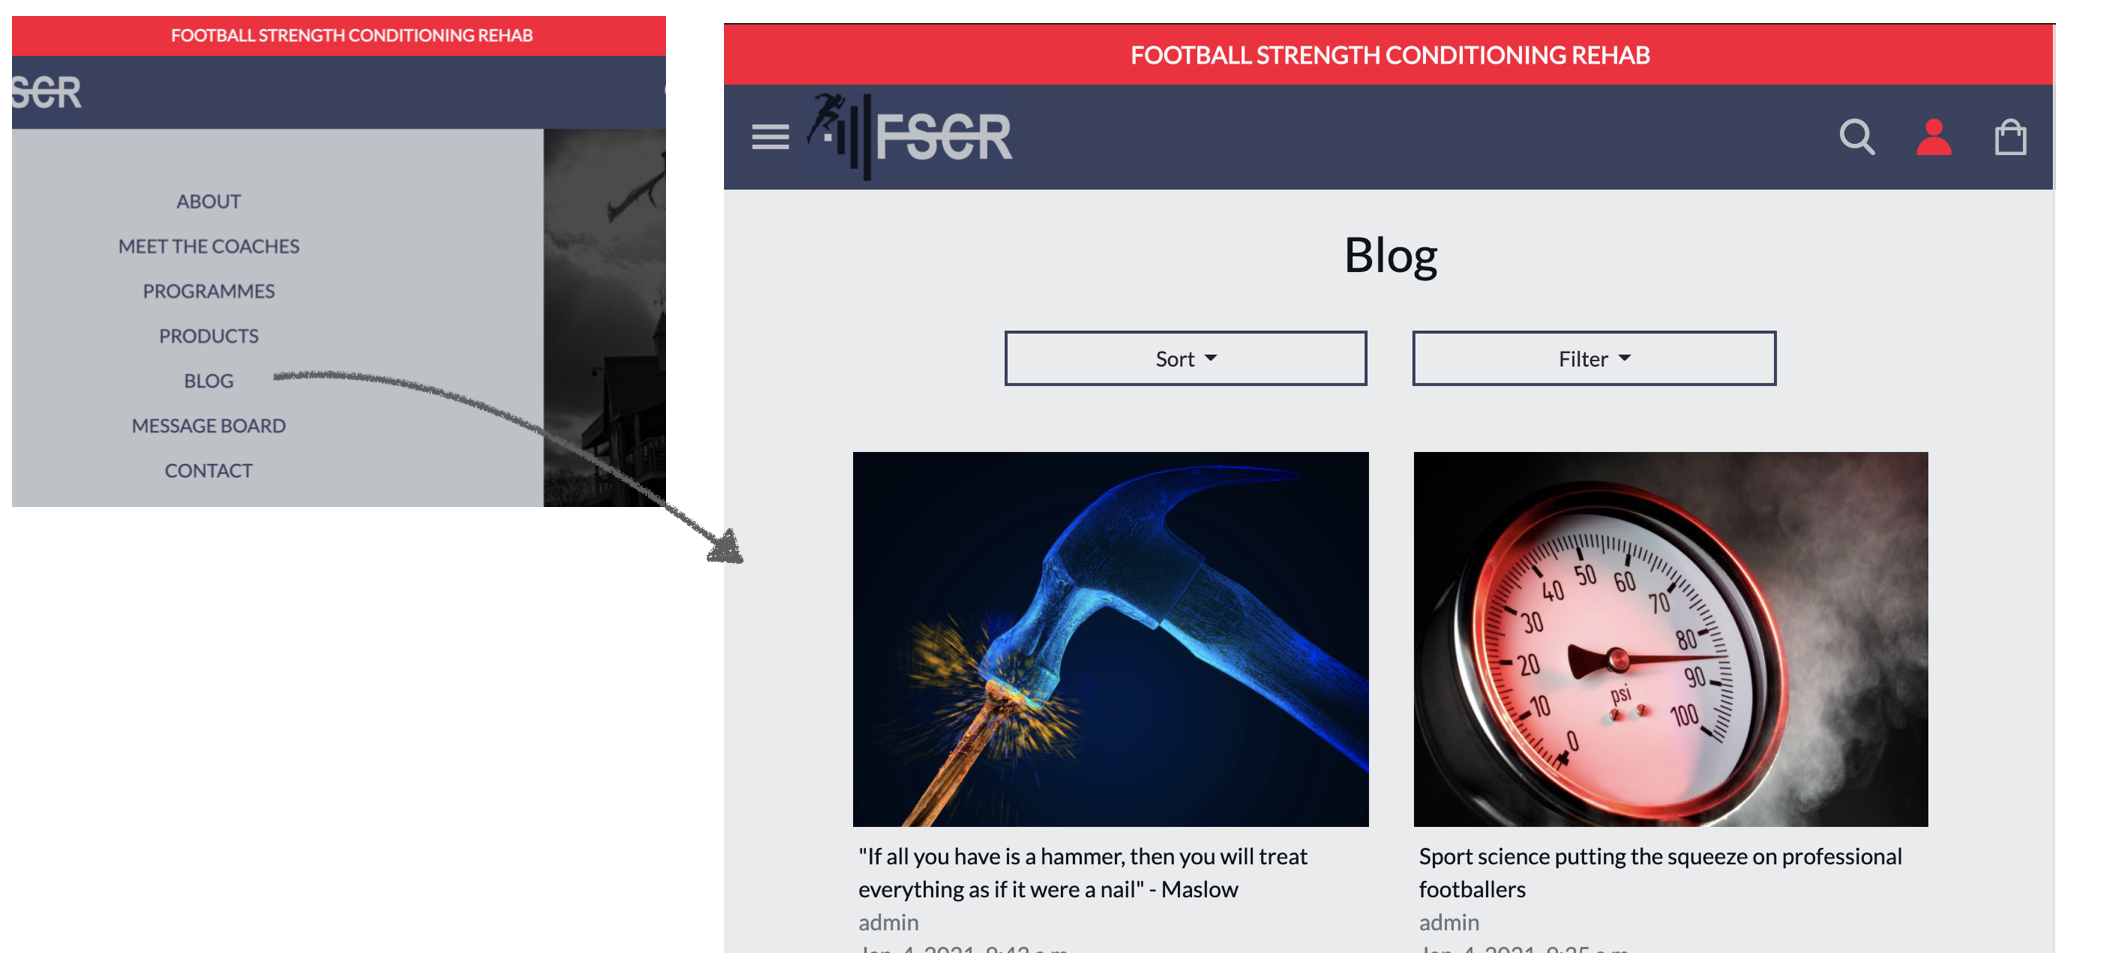
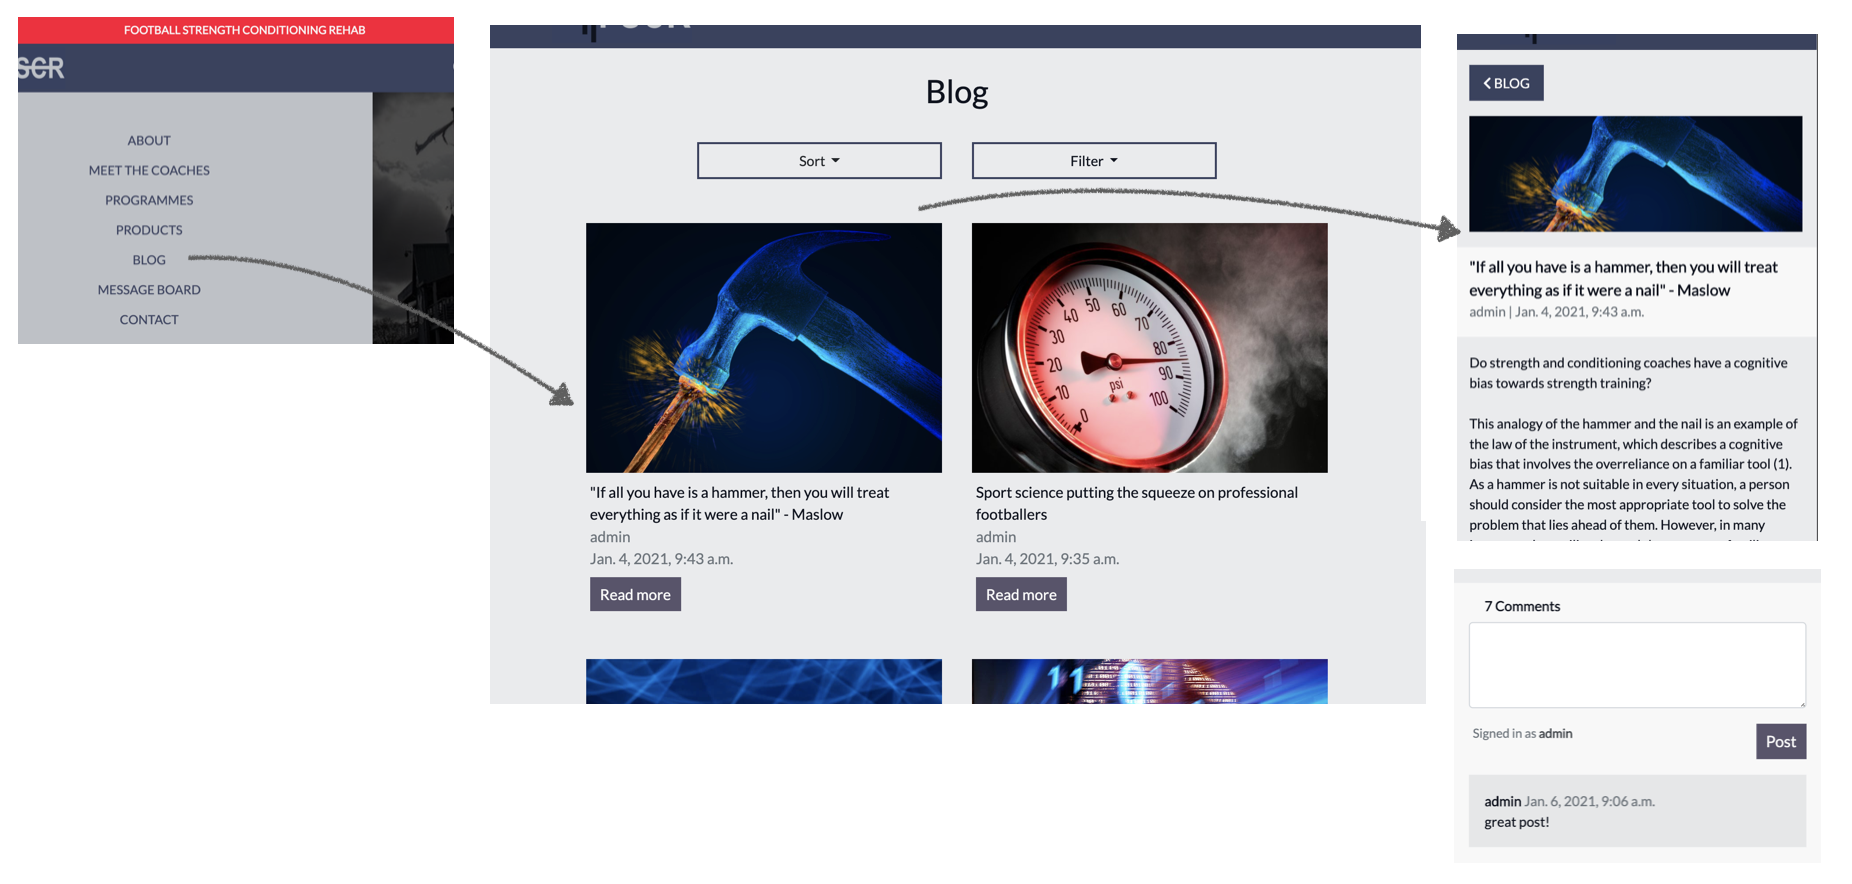
blog and forum image updated for user stories

diff --git a/testing.md b/testing.md
@@ -13,7 +13,7 @@
 
 ---
 
-#### Testing user stories
+### **Testing user stories**
 
 <u>Viewing and Navigation</u>
 
@@ -109,6 +109,8 @@ If a user forgets their password they have the option to click the 'forgot passw
 
 The profile page is specific to each user with a personalised username greeting,the option to save their own entered details and a log of their order history.
 
+(See user story 13 for imagery)
+
 **16. Enable my details to be prefilled**
 
 If the user has filled in their profile information, these details will be prefilled at checkout. The user also has the option to tick the save details options on checkout which will automatically save details to their profile page.
@@ -200,7 +202,7 @@ When logged in as admin user, the user has a delete button displayed next to the
 
 When logged into the admin, the admin user can add a new blog to the site. I didn't think it was nessessary to add a manual function for adding a blog as these will be posted less frequently and have little chance of needing modifications after being posted.
 
-#### Manual function testing
+### **Manual function testing**
 
 To ensure my site was working correctly I carried out some manual function testing;
 
@@ -230,6 +232,9 @@ To ensure my site was working correctly I carried out some manual function testi
 **Form validation**
 
 **Home**
+
+<u>Contact form JS functionality</u>
+
 
 **Products**
 
@@ -283,11 +288,15 @@ I checked that my add to bag function was working by selecting a range of produc
 
 **Blog**
 
+<u>View blog functionality</u>
+
 <u>Commenting on blog</u>
 
 When logged in as a member/admin I clicked onto a variety of forums and entered a comment into the text field and clicked 'post'. I could see that the comment had been added below with the correct logged in username and date/time so I knew the functionality was working correctly.
 
 **Forum**
+
+<u>View thread functionality</u>
 
 <u>Adding Thread</u>
 
@@ -297,12 +306,12 @@ I checked that the functionality for adding a thread to the forum was working by
 
 When logged in as a member/admin I clicked onto a variety of forums and entered a comment into the text field and clicked 'post'. I could see that the comment had been added below with the correct logged in username and date/time so I knew the functionality was working correctly.
 
-#### Automated testing
+### **Automated testing**
 
 I also decided to use Django's testing framework to create some automated tests for my prpject.
 
 
-#### Validator checks
+### **Validator checks**
 
 The W3C Markup Validator and W3C CSS Validator Services were used to validate every page of the project to ensure there were no syntax errors in the project. The code was entered through direct input. JS hint was used to check for any errors with my Javascript files. 
 JS was also tested by opening the developer console window on Chrome and checking for any errors as I clicked through the site.
@@ -323,11 +332,11 @@ I used the PEP8 online checking tool to inspect my Python code against the style
 - [**PEP8 online check**](http://pep8online.com/checkresult)
 
 
-#### Audits
+### **Audits**
 
 [Lighthouse](https://developers.google.com/web/tools/lighthouse) was used to run a series of audits to improve the quality of web pages. Overall performance and errors are highlighted below.
 
-#### Responsive Design
+### **Responsive Design**
 
 - Site created as a mobile-first design.
 
@@ -335,9 +344,9 @@ I used the PEP8 online checking tool to inspect my Python code against the style
 
 - Media queries used in the CSS file to target larger devices.
 
-#### Additional Testing
+### **Additional Testing**
 
-#### Bugs
+### **Bugs**
 
 |     | Bug                                                                           | Action                                                            |
 |-----|-------------------------------------------------------------------------------|-------------------------------------------------------------------|
